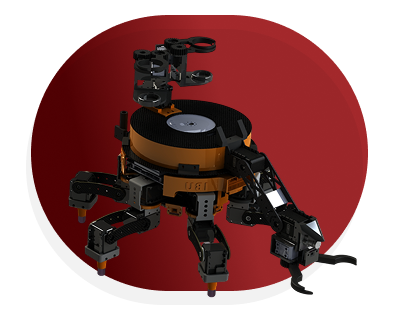
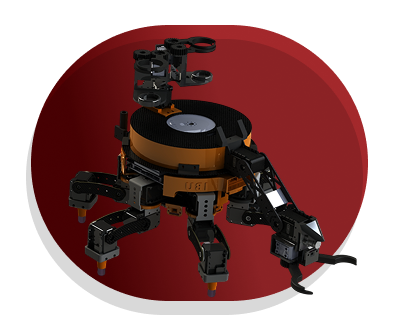
7.4

Changed region(s): [[0.0611, 0.0286, 0.9466, 1.0]]

diff --git a/src/components/page/home/RobotSlider.vue b/src/components/page/home/RobotSlider.vue
@@ -8,7 +8,7 @@
           :key="index"
           class="swiper-slide flex flex-col items-center justify-center p-4"
         >
-          <img :src="robot.image" alt="Robot" class="w-64 h-64 object-cover" />
+          <img :src="robot.image" alt="Robot" class="w-60 h-50 object-cover" />
           <p class="mt-4 mb-4 text-center font-bold text-gray-700">{{ robot.id }}</p>
         </div>
       </div>
